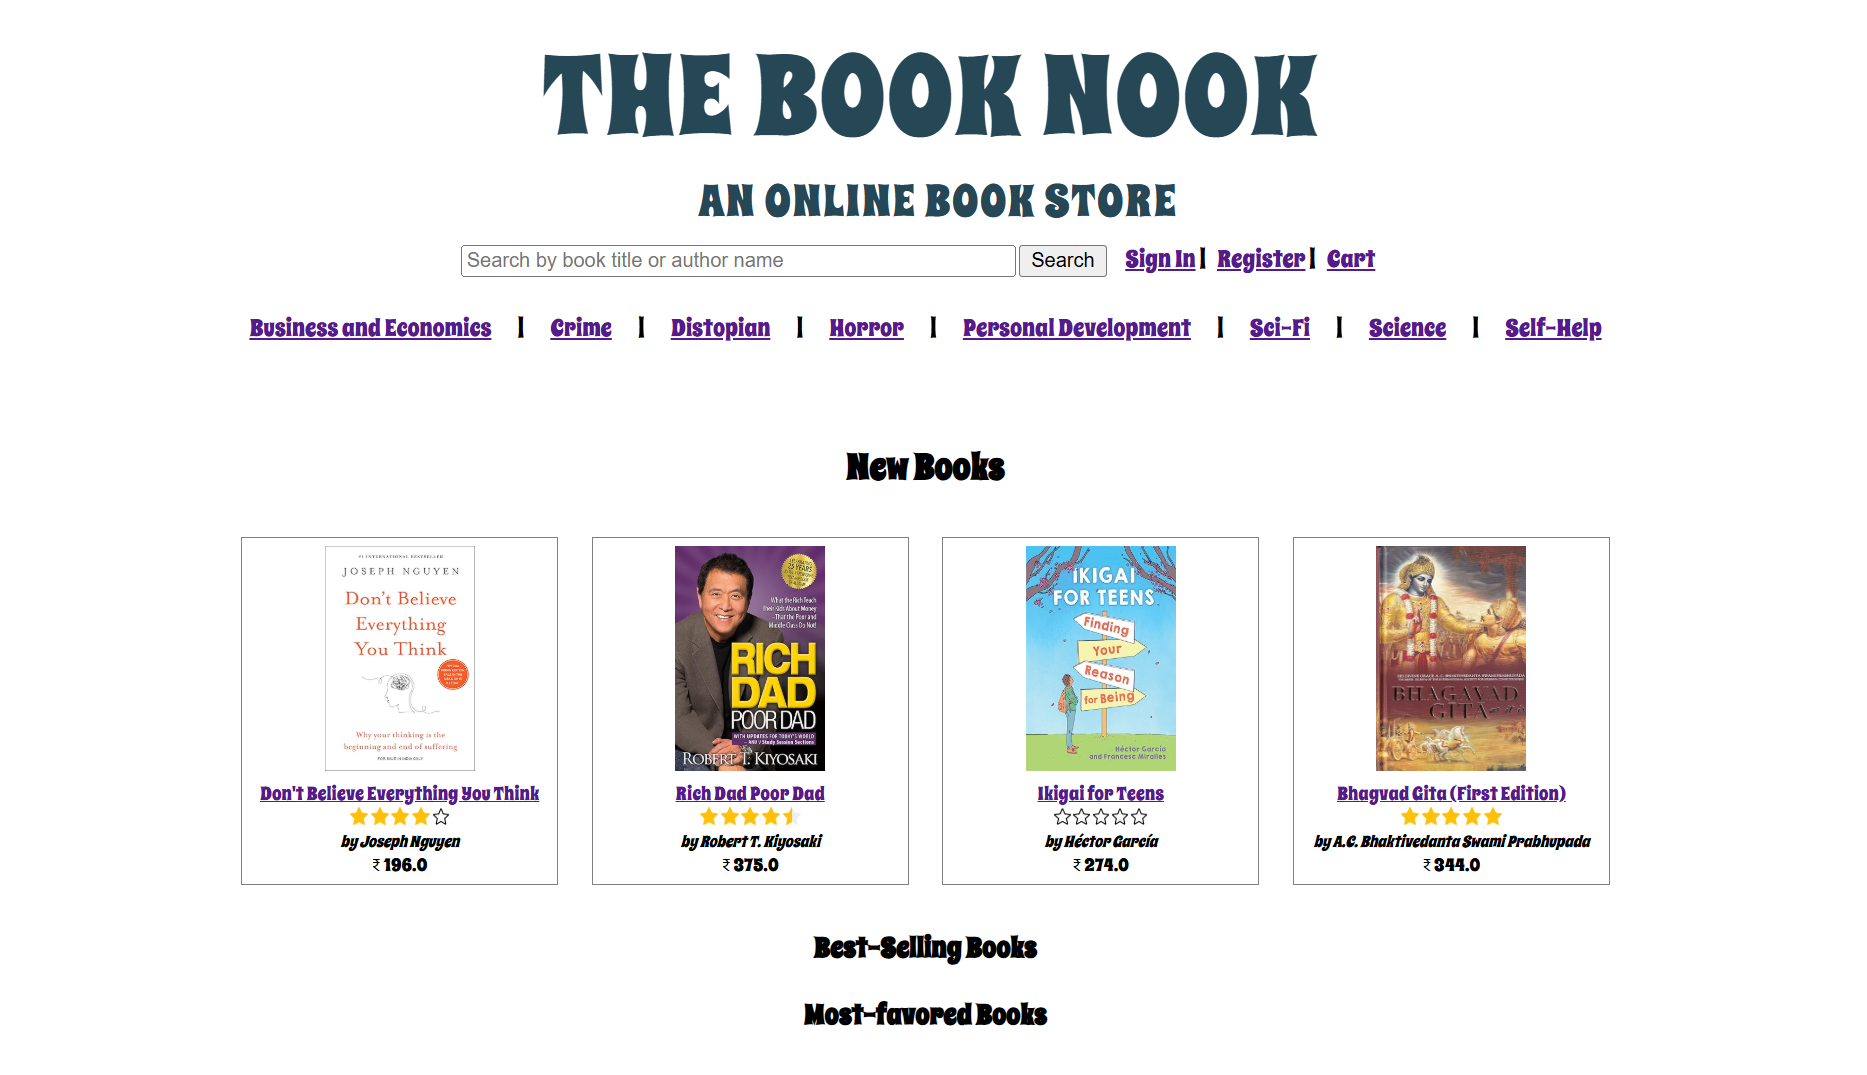
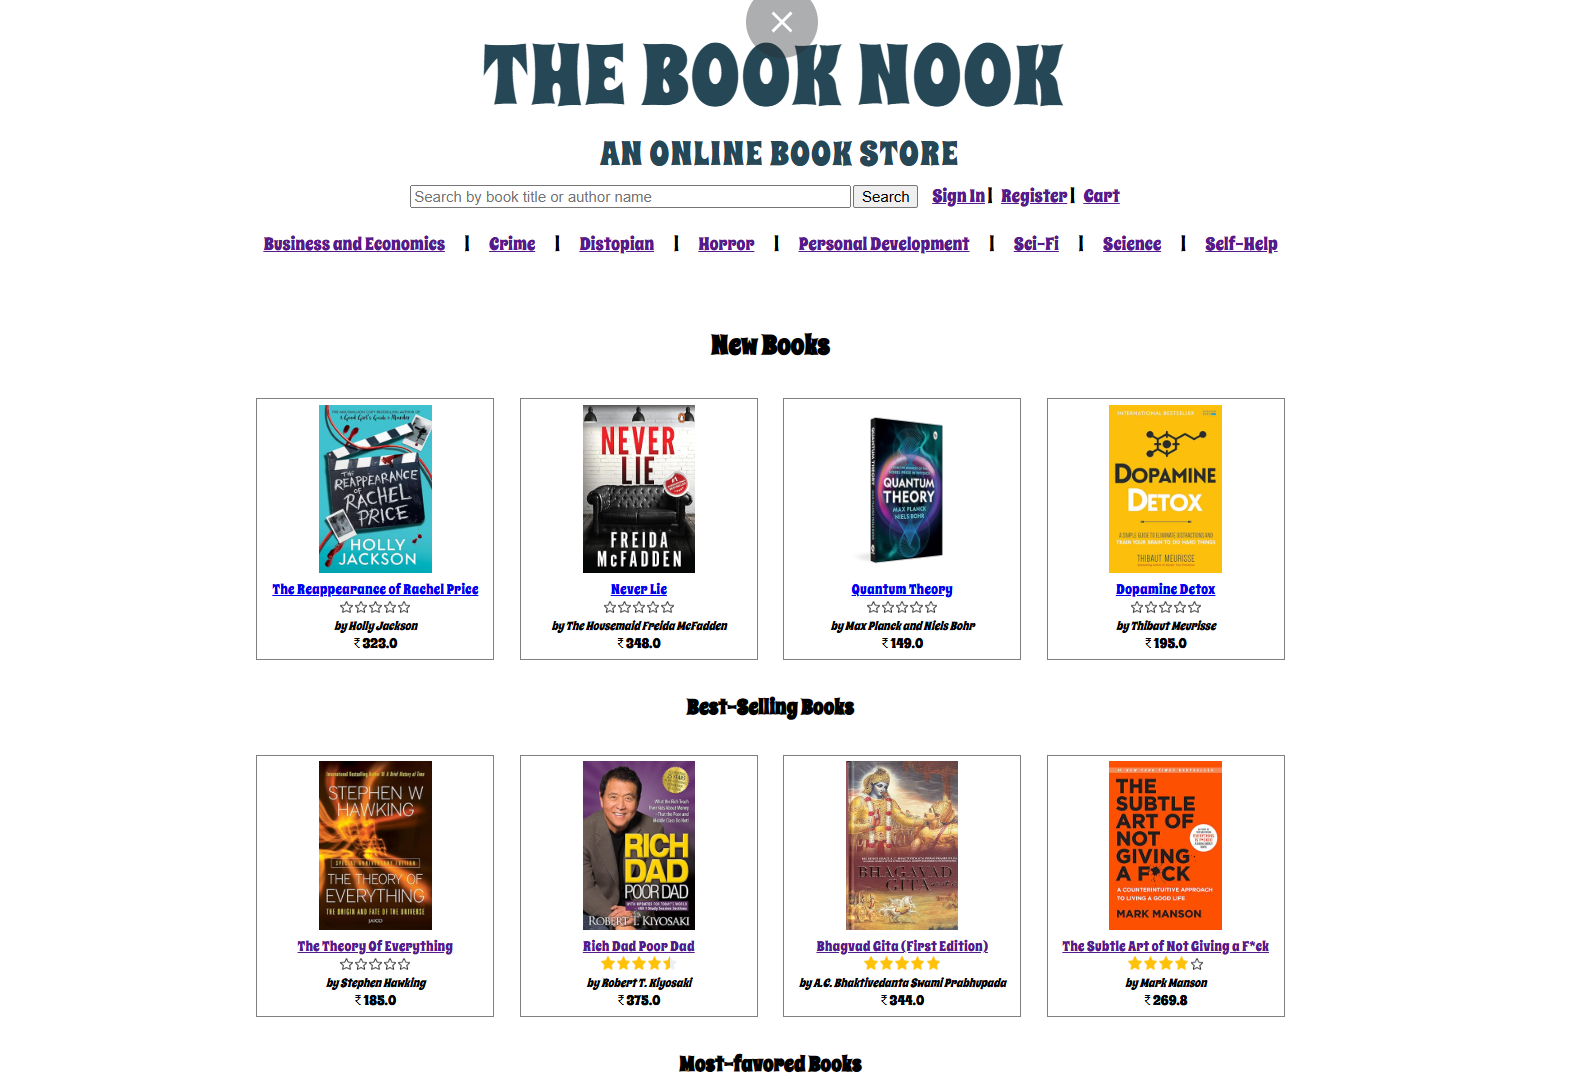
website frontend completed

diff --git a/src/main/java/com/bookstore/dao/BookDAO.java b/src/main/java/com/bookstore/dao/BookDAO.java
@@ -1,5 +1,6 @@
 package com.bookstore.dao;
 
+import java.util.ArrayList;
 import java.util.Date;
 import java.util.List;
 
@@ -73,4 +74,26 @@ public class BookDAO extends JpaDAO<Book> implements GenericDAO<Book> {
 	public long countByCategory(int categoryId) {
 		return super.countWithNamedQuery("book.countByCategory", "categoryID", categoryId);
 	}
+	
+	public List<Book> listBestSellingBooks(){
+		List<Book> listBooks = super.findWithNamedQuery("bookOrder.bestSelling", 0, 4);
+		return listBooks;
+	}
+	
+	
+	public List<Book> listMostFavouredBooks(){
+		List<Book> listBooks = new ArrayList<Book>();
+		List<Object[]> result = super.findWithNamedQueryObjects("review.mostFavoured", 0, 4);
+		
+		if(!result.isEmpty()) {
+			for(Object[] elements: result) {
+				Book book = (Book) elements[0];
+				listBooks.add(book);
+			}
+		}
+		
+		return listBooks;
+	}
 }
+
+

diff --git a/src/main/java/com/bookstore/entity/Review.java b/src/main/java/com/bookstore/entity/Review.java
@@ -25,8 +25,10 @@ import jakarta.persistence.Transient;
 	@NamedQuery(name = "review.listAll", query = "SELECT r FROM review r ORDER BY review_time DESC"),
 	@NamedQuery(name = "review.countAll", query = "SELECT COUNT(*) FROM review r"),
 	@NamedQuery(name = "review.findByCustomerAndBook", query = "SELECT r FROM review r WHERE r.customer.customer_id = :customerId AND"
-			+ " r.book.book_id = :bookId")
+			+ " r.book.book_id = :bookId"),
+	@NamedQuery(name = "review.mostFavoured", query = "SELECT r.book, COUNT(r.book.book_id) AS review_count, AVG(r.rating) AS avg_rating FROM review r GROUP BY r.book.book_id HAVING AVG(r.rating) >= 4.0 ORDER BY review_count DESC, avg_rating DESC")
 	})
+              
 public class Review implements Serializable {
 	
 	private int review_id;

diff --git a/src/main/java/com/bookstore/entity/OrderDetail.java b/src/main/java/com/bookstore/entity/OrderDetail.java
@@ -2,6 +2,9 @@ package com.bookstore.entity;
 
 import java.io.Serializable;
 
+import org.hibernate.annotations.NamedQueries;
+import org.hibernate.annotations.NamedQuery;
+
 import jakarta.persistence.AttributeOverride;
 import jakarta.persistence.AttributeOverrides;
 import jakarta.persistence.Column;
@@ -14,6 +17,9 @@ import jakarta.persistence.Table;
 
 @Entity(name="order_detail")
 @Table(name="order_detail")
+@NamedQueries({
+	@NamedQuery(name="bookOrder.bestSelling", query = "SELECT bo.book FROM order_detail bo GROUP BY bo.book.book_id ORDER BY SUM(bo.quantity) DESC"),
+})
 public class OrderDetail implements Serializable {
 	
 	private OrderDetailId id = new OrderDetailId();

diff --git a/src/main/java/com/bookstore/dao/JpaDAO.java b/src/main/java/com/bookstore/dao/JpaDAO.java
@@ -178,6 +178,22 @@ public class JpaDAO<E> {
 		
 	}
 	
+	public List<Object[]> findWithNamedQueryObjects(String queryName, int firstResult, int maxResults) {
+		EntityManager entityManager = entityManagerFactory.createEntityManager();
+		try {
+			Query query = entityManager.createNamedQuery(queryName);
+			query.setFirstResult(firstResult);
+			query.setMaxResults(maxResults);
+			List<Object[]> results = query.getResultList();
+			
+			return results;
+		}
+		finally {
+			entityManager.close();
+		}
+		
+	}
+	
 	public void close() {
 		if(entityManagerFactory != null) {
 			entityManagerFactory.close();

diff --git a/src/main/java/com/bookstore/controller/frontend/HomeServlet.java b/src/main/java/com/bookstore/controller/frontend/HomeServlet.java
@@ -26,6 +26,10 @@ public class HomeServlet extends HttpServlet {
 	protected void doGet(HttpServletRequest request, HttpServletResponse response) throws ServletException, IOException {
 		BookDAO bookDAO = new BookDAO();
 		List<Book> newBooks = bookDAO.listNewBooks();
+		List<Book> bestSelling = bookDAO.listBestSellingBooks();
+		List<Book> mostFavoured = bookDAO.listMostFavouredBooks();
+		request.setAttribute("mostFavoured", mostFavoured);
+		request.setAttribute("listBestSelling", bestSelling);
 		request.setAttribute("listNewBooks", newBooks);
 		
 //		CategoryDAO categoryDAO = new CategoryDAO();

diff --git a/src/main/java/com/bookstore/dao/OrderDAO.java b/src/main/java/com/bookstore/dao/OrderDAO.java
@@ -5,8 +5,9 @@ import java.util.HashMap;
 import java.util.List;
 import java.util.Map;
 
+
 import com.bookstore.entity.BookOrder;
-import com.bookstore.entity.Customer;
+
 
 public class OrderDAO extends JpaDAO<BookOrder> implements GenericDAO<BookOrder> {
 	
@@ -57,5 +58,12 @@ public class OrderDAO extends JpaDAO<BookOrder> implements GenericDAO<BookOrder>
 	public List<BookOrder> listByCustomer(int custId){
 		return super.findWithNamedQuery("bookOrder.findByCustomer", "customerId", custId);
 	}
+	
+	
 
 }
+
+
+
+
+

diff --git a/src/test/java/com/bookstore/dao/BookDAOTest.java b/src/test/java/com/bookstore/dao/BookDAOTest.java
@@ -204,4 +204,18 @@ class BookDAOTest {
 		assertTrue(cnt>0);	
 	}
 	
+	@Test()
+	void testListBestSellingBooks() {
+		List<Book> listBooks = bookDAO.listBestSellingBooks();
+		assertEquals(4, listBooks.size());
+	}
+	
+	@Test()
+	void testListMostFavouredBooks() {
+		List<Book> listBooks = bookDAO.listMostFavouredBooks();
+		assertEquals(4, listBooks.size());
+	}
+	
 }
+
+
